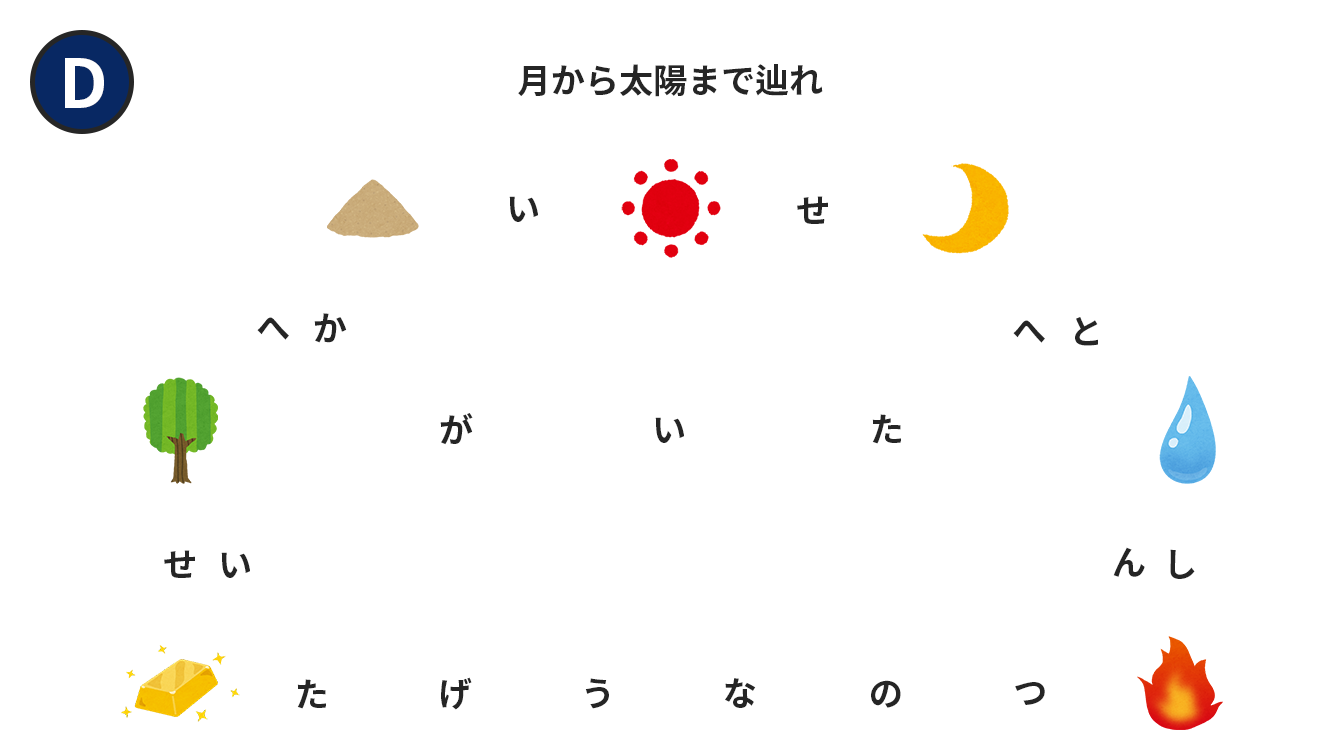
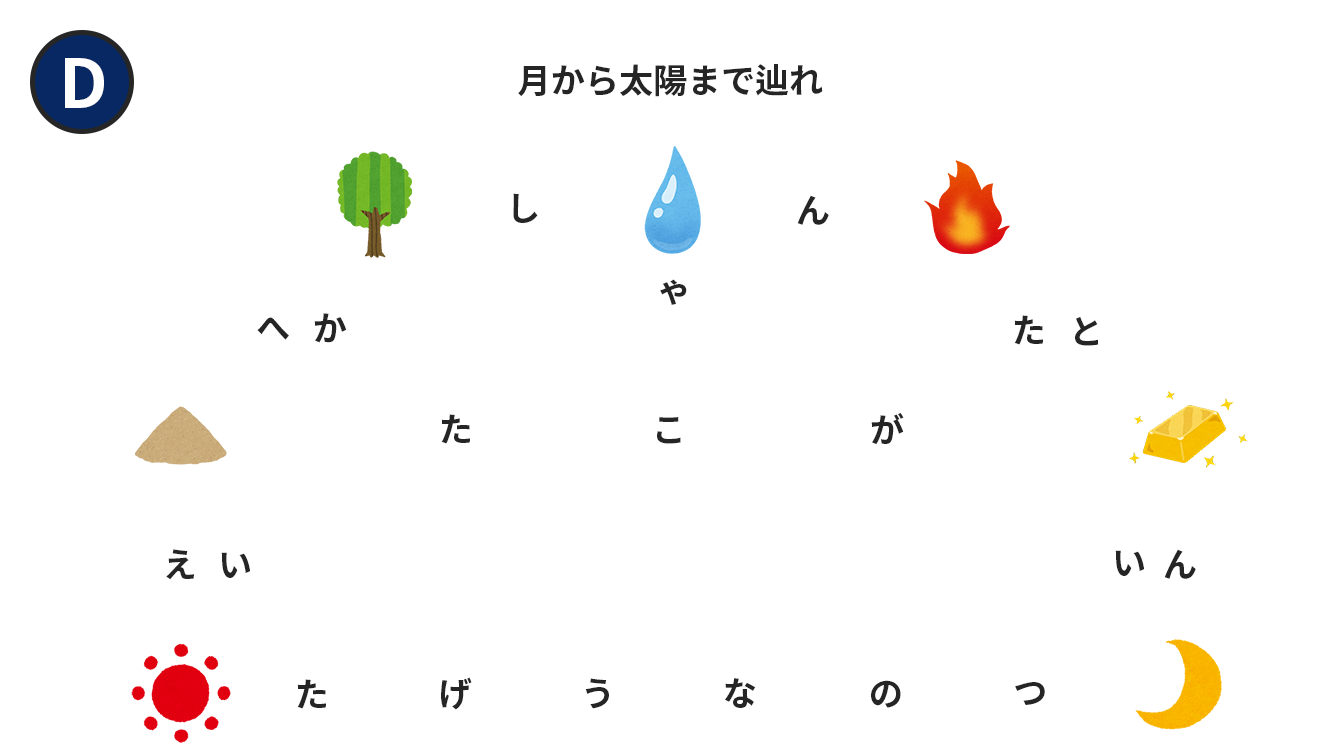
修正対応

diff --git a/index.html b/index.html
@@ -150,11 +150,11 @@
         </section>
         <section id="block_e" class="hidden">
             <p class="message mb2">
-                僕「変死体...。ぶっそうな答えだね」<br>
                 たけるん「次は、ステージ...かな？真逆だね〜。」<br>
-                マイマイ「幕張メッセって、結構広いんだね...。疲れてきちゃった。」<br>
-                僕「あそこに、フードスペースがあるから、一休みする？」<br>
-                たけるん「いいね...って、あ！ここにEの問題があるよ！」<br>
+                マイマイ「ステージに行くのは...このルートかな？」<br>
+                僕「あ、フードコートのチラシが落ちてる」<br>
+                たけるん「ほんとだ、色々美味しそうなのがあるね。」<br>
+                マイマイ「あ！裏に謎があるよ！」<br>
             </p>
             <div class="image_box mb2">
                 <img class="image" src="nazo_e.png" alt="謎E">
@@ -168,7 +168,7 @@
             <p class="message mb2">
                 僕「なんだか、お腹空いてきちゃったよ」<br>
                 たけるん「食べてみたいメニューがたくさんあったね！」<br>
-                マイマイ「ステージに向かいますか！！」<br>
+                マイマイ「ステージに向かいましょ！！」<br>
                 <br>
                 ステージに向かうと、一枚の紙が落ちていた<br>
                 <br>

diff --git a/app.js b/app.js
@@ -23,7 +23,7 @@ const answers = {
     "a": "はつがつお",
     "b": "じょうけん",
     "c": "あぶらむし",
-    "d": "へんしたい",
+    "d": "いたんしゃ",
     "e": "ゆでたまご",
     "f": "ひとりじめ",
     "g": "すずめばち",
